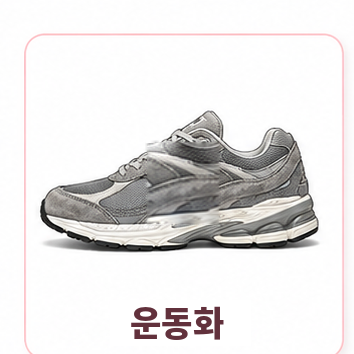
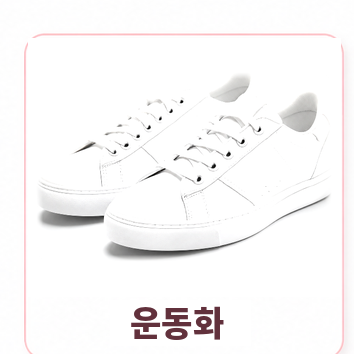
무지 운동화 그림 교체(사장님 제공 흰 스니커즈) + 스파클링 부스터=화장품 정정
- sneakers.png: 사장님이 보내주신 흰 스니커즈 사진을 카드 틀(운동화 라벨)에 합성
- 스파클링·부스터·더유핏 → 스킨케어로 정정 (검색 확인: 더유핏=화장품 브랜드,
  스파클링 부스터=탄산 스킨케어 제품군. 음료 규칙에는 에이드·탄산수·탄산음료만 유지)

Claude-Session: https://claude.ai/code/session_016v4Qn8fxZE69yD3A2Mnbnv

diff --git a/lib/brandWordmarkThumbnail.ts b/lib/brandWordmarkThumbnail.ts
@@ -137,7 +137,7 @@ const AUTO_THUMB_RULES: Array<[RegExp, string]> = [
   [/랜덤|럭키박스|복불복|무료나눔|무나(?![가-힣])|당첨/, "randombox"],
   // 식품·생활 (— "티백"이 가방(백)으로 오인되지 않게 가방보다 먼저)
   [/라면|컵라면/, "ramen"],
-  [/음료|생수|드링크|주스|커피|차(?![가-힣])|티백|녹차|홍차|스파클링|에이드|탄산/, "drink"],
+  [/음료|생수|드링크|주스|커피|차(?![가-힣])|티백|녹차|홍차|에이드|탄산수|탄산음료/, "drink"],
   [/과자|스낵|쿠키|간식|초콜릿|육포|대게|먹태|건어물|빵(?![가-힣])/, "snack"],
   [/세제|세탁|섬유유연|퐁퐁|샴푸|바디워시/, "detergent"],
   [/휴지|티슈|생활용품|주방용품|욕실|칫솔|치약|밥그릇|반려동물|반려용품|애견/, "daily"],
@@ -146,7 +146,7 @@ const AUTO_THUMB_RULES: Array<[RegExp, string]> = [
   // 뷰티
   [/립스틱|립밤|립오일|립글로스|틴트|립(?![가-힣])/, "cosmetics"],
   [/향수|퍼퓸|오드|바디미스트|edp|edt/, "perfume"],
-  [/마스크팩|스킨케어|스킨(?![가-힣])|로션|크림|세럼|앰플|토너|클렌징|선크림|패치|워시|클렌저|기미|필링|팩(?![가-힣])/, "skincare"],
+  [/마스크팩|스킨케어|스킨(?![가-힣])|로션|크림|세럼|앰플|토너|클렌징|선크림|패치|워시|클렌저|기미|필링|부스터|스파클링|더유핏|팩(?![가-힣])/, "skincare"],
   [/화장품|쿠션|팩트|섀도|마스카라|메이크업|블러셔|아이라이너|코스메/, "cosmetics"],
   [/캔들|디퓨저|방향제|인센스/, "candle"],
   // 의류 — 구체적인 단어 먼저
